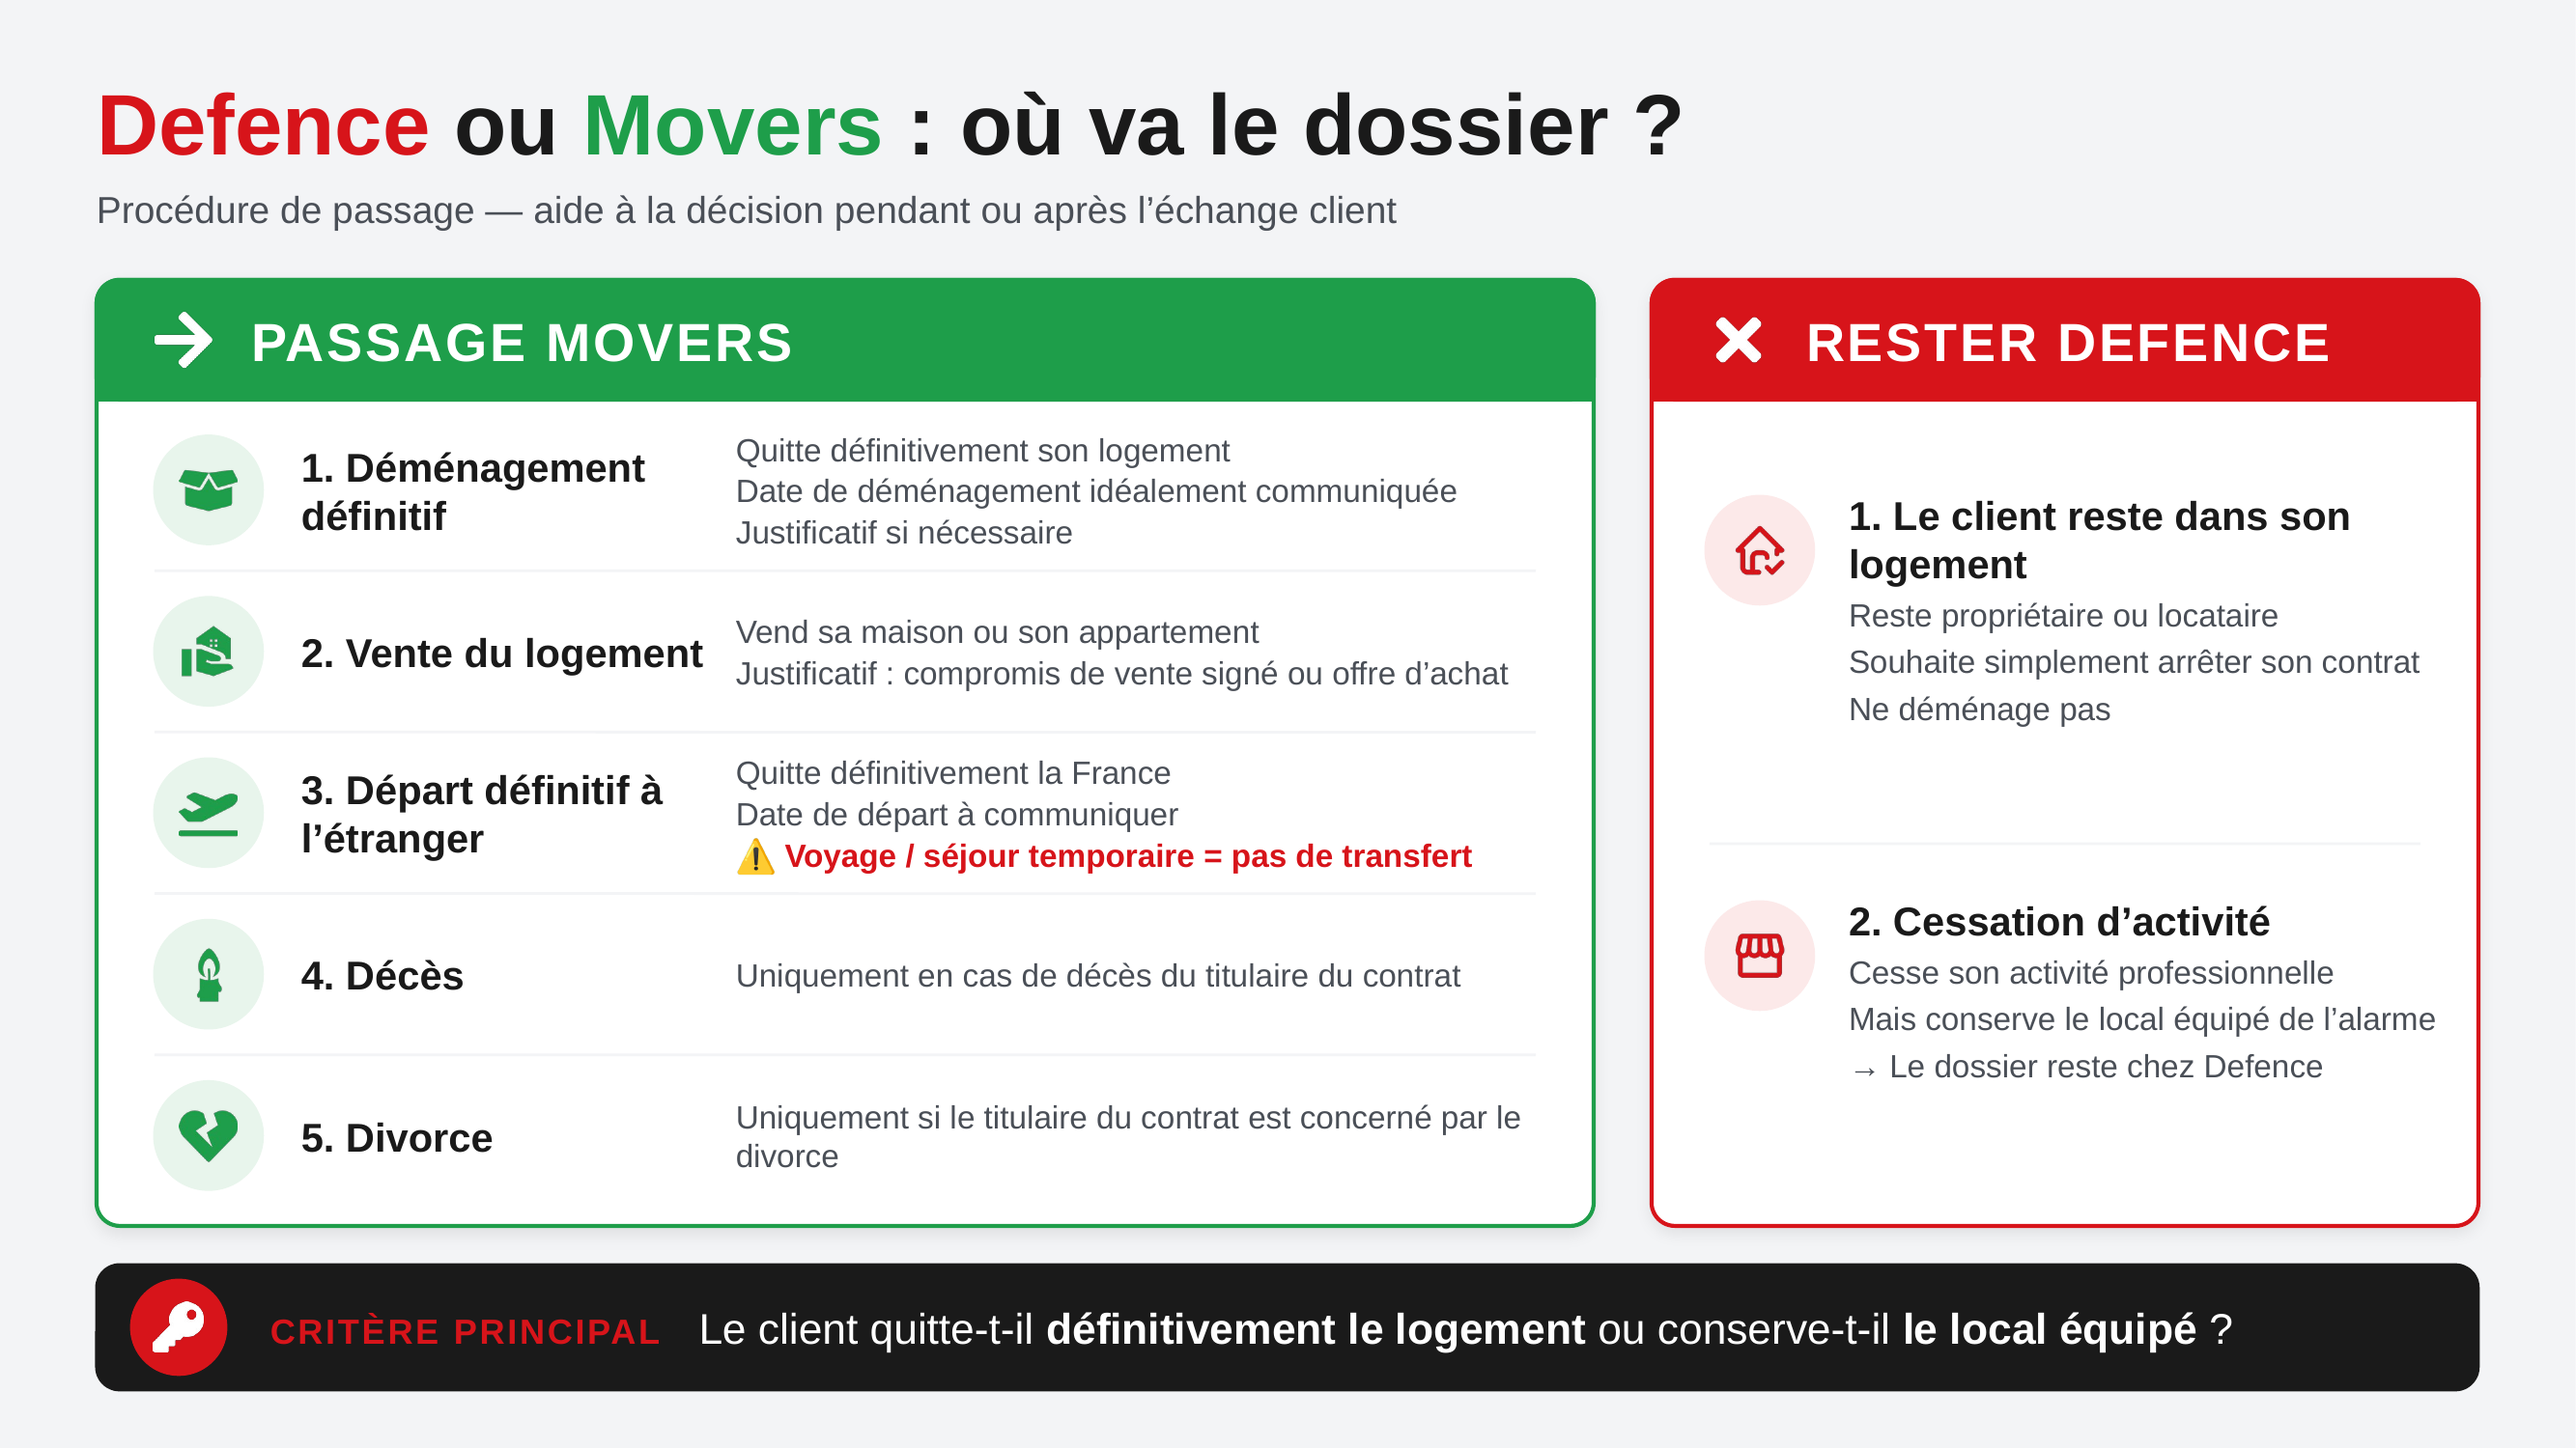
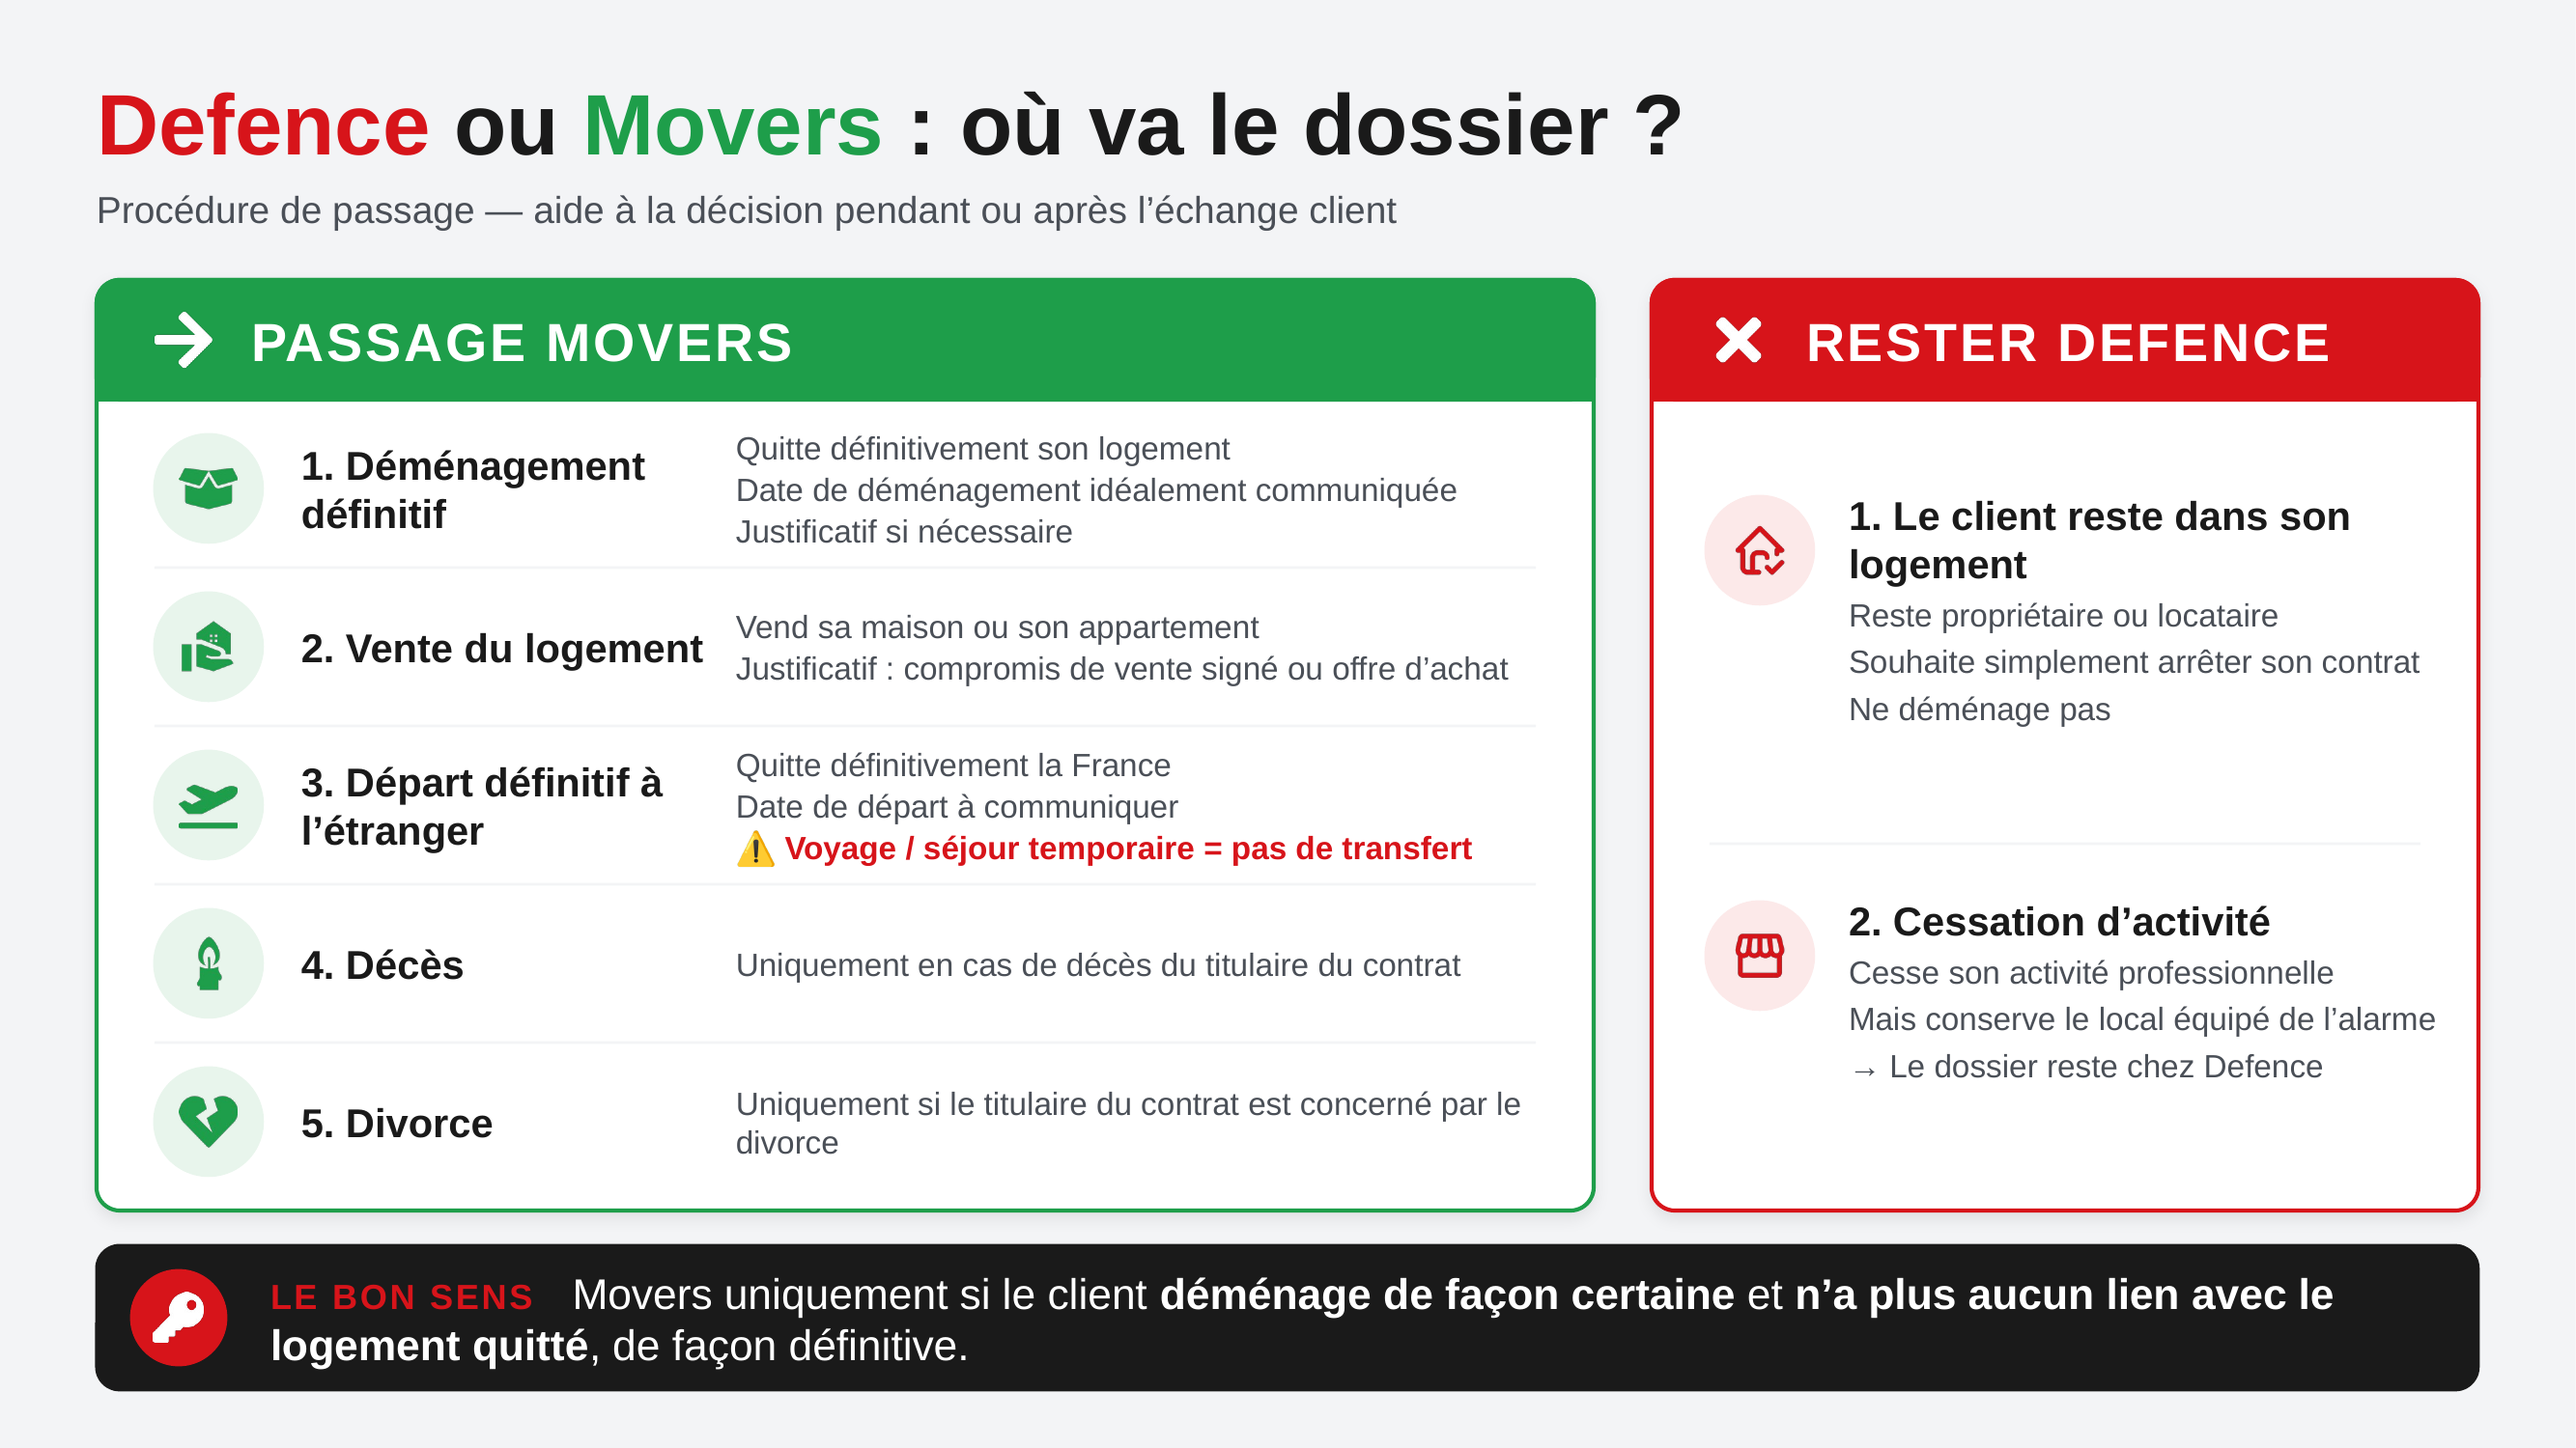
Slide Defence → Movers : rappel « bon sens » en bas de slide
Claude-Session: https://claude.ai/code/session_013QDJBdgdVoUZJRMFsdoeL7

diff --git a/docs/passage-defence-movers/build-slide.js b/docs/passage-defence-movers/build-slide.js
@@ -62,7 +62,7 @@ async function icon(Comp, color, size = 256) {
   });
 
   // ---------- Panels ----------
-  const PY = 1.45, PH = 4.9;
+  const PY = 1.45, PH = 4.82;
   const L = { x: 0.5, w: 7.75 }, R = { x: 8.55, w: 4.28 };
 
   const panel = (p, fill, name) => s.addShape(pres.shapes.ROUNDED_RECTANGLE, {
@@ -125,18 +125,18 @@ async function icon(Comp, color, size = 256) {
     ["Cesse son activité professionnelle", "Mais conserve le local équipé de l’alarme", "→ Le dossier reste chez Defence"]);
 
   // ---------- Critère principal ----------
-  const BY = 6.55;
-  s.addShape(pres.shapes.ROUNDED_RECTANGLE, { x: 0.5, y: BY, w: 12.33, h: 0.65, rectRadius: 0.12, fill: { color: C.text1 }, line: { color: C.text1 }, objectName: "Critère principal" });
-  s.addShape(pres.shapes.OVAL, { x: 0.68, y: BY + 0.08, w: 0.49, h: 0.49, fill: { color: C.accent1 }, line: { color: C.accent1 }, objectName: "Pastille clé" });
-  s.addImage({ data: await icon(fa.FaKey, HEX.white), x: 0.795, y: BY + 0.195, w: 0.26, h: 0.26, altText: "Critère principal" });
+  const BY = 6.45;
+  s.addShape(pres.shapes.ROUNDED_RECTANGLE, { x: 0.5, y: BY, w: 12.33, h: 0.75, rectRadius: 0.12, fill: { color: C.text1 }, line: { color: C.text1 }, objectName: "Critère principal" });
+  s.addShape(pres.shapes.OVAL, { x: 0.68, y: BY + 0.13, w: 0.49, h: 0.49, fill: { color: C.accent1 }, line: { color: C.accent1 }, objectName: "Pastille clé" });
+  s.addImage({ data: await icon(fa.FaKey, HEX.white), x: 0.795, y: BY + 0.245, w: 0.26, h: 0.26, altText: "Le bon sens" });
   s.addText([
-    { text: "CRITÈRE PRINCIPAL   ", options: { bold: true, color: C.accent1, fontSize: 13, charSpacing: 1 } },
-    { text: "Le client quitte-t-il ", options: { color: C.background1, fontSize: 16 } },
-    { text: "définitivement le logement", options: { color: C.background1, fontSize: 16, bold: true } },
-    { text: " ou conserve-t-il ", options: { color: C.background1, fontSize: 16 } },
-    { text: "le local équipé", options: { color: C.background1, fontSize: 16, bold: true } },
-    { text: " ?", options: { color: C.background1, fontSize: 16 } },
-  ], { x: 1.4, y: BY, w: 11.3, h: 0.65, valign: "middle", margin: 0, isTextBox: true });
+    { text: "LE BON SENS   ", options: { bold: true, color: C.accent1, fontSize: 13, charSpacing: 1 } },
+    { text: "Movers uniquement si le client ", options: { color: C.background1, fontSize: 16 } },
+    { text: "déménage de façon certaine", options: { color: C.background1, fontSize: 16, bold: true } },
+    { text: " et ", options: { color: C.background1, fontSize: 16 } },
+    { text: "n’a plus aucun lien avec le logement quitté", options: { color: C.background1, fontSize: 16, bold: true } },
+    { text: ", de façon définitive.", options: { color: C.background1, fontSize: 16 } },
+  ], { x: 1.4, y: BY, w: 11.25, h: 0.75, valign: "middle", margin: 0, isTextBox: true });
 
   s.addNotes("Règle : transfert vers Movers uniquement pour déménagement définitif, vente du logement, départ définitif à l'étranger, décès du titulaire ou divorce concernant le titulaire. Le client qui reste dans son logement ou qui cesse son activité en conservant le local équipé reste chez Defence.");
 
